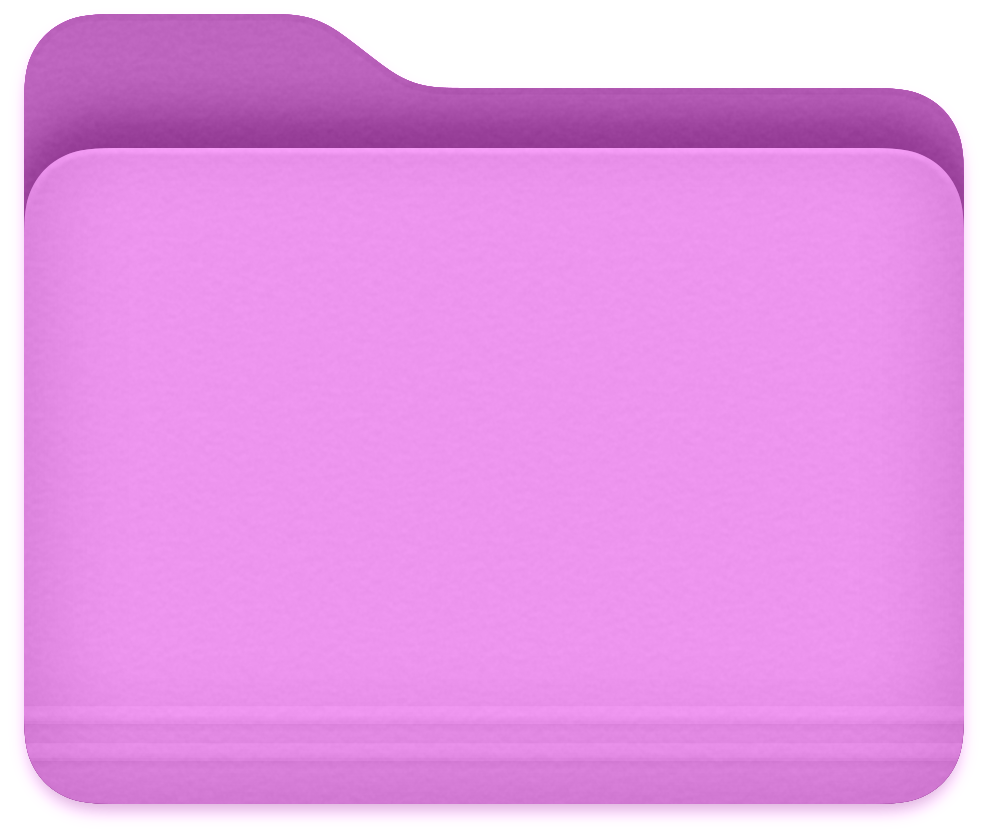
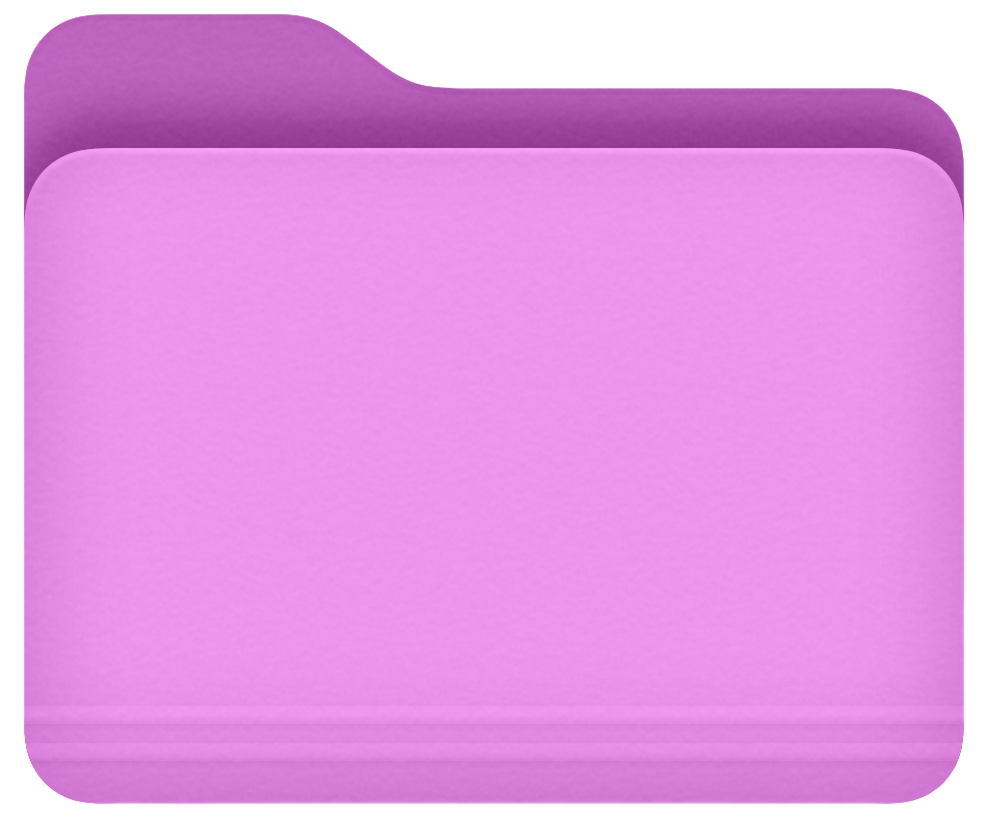
Sticky notes derecha

Changed region(s): [[0.0304, 0.8998, 0.9717, 0.9928]]

diff --git a/components/desktop/responsive-desktop.tsx b/components/desktop/responsive-desktop.tsx
@@ -51,18 +51,54 @@ export function ResponsiveDesktop() {
     }, 300)
   }
 
-  // Fixed folder positions - top left arrangement
+  // Fixed folder positions - centered towards right, two rows, right to left arrangement
   const getFolderPositions = () => {
+    if (typeof window !== 'undefined') {
+      const windowWidth = window.innerWidth
+      const folderWidth = 100 // Approximate folder width including spacing
+      const centerX = windowWidth / 2 // Center of screen
+      const rightOffset = 280 // Offset towards right from center (increased from 200)
+      const startX = centerX + rightOffset // Start position (center + right offset)
+      
+      return {
+        projects: [
+          // Primera fila (4 elementos de derecha a izquierda) - moved up from y: 80 to y: 60
+          { x: startX, y: 60 },                           // Project 02 (Simplingo) - más a la derecha
+          { x: startX - folderWidth, y: 60 },             // Project 01 (AbsolutMess)
+          { x: startX - (folderWidth * 2), y: 60 },       // Project 03 (Leafpress)  
+          { x: startX - (folderWidth * 3), y: 60 },       // Project 04 (Amazon)
+          // Segunda fila (1 elemento restante) - moved up from y: 180 to y: 150
+          { x: startX, y: 150 }                           // Don't Look - más a la derecha en segunda fila
+        ],
+        // Segunda fila (2 elementos más de derecha a izquierda) - moved up from y: 180 to y: 150
+        aboutMe: { x: startX - folderWidth, y: 150 },     // About Me 
+        resume: { x: startX - (folderWidth * 2), y: 150 }, // Resume.pdf
+        // Posición de la papelera - abajo a la izquierda del área de carpetas - moved up from y: 280 to y: 240
+        trash: { x: startX - (folderWidth * 4), y: 240 }
+      }
+    }
+    
+    // Fallback positions for SSR - centered towards right
+    const fallbackCenterX = 640 // Approximate center for 1280px width
+    const rightOffset = 280 // Increased from 200 to match above
+    const fallbackStartX = fallbackCenterX + rightOffset
+    const folderWidth = 100
+    
     return {
       projects: [
-        { x: 80, y: 120 },   // Project 02 (Simplingo)
-        { x: 180, y: 120 },  // Project 01 (AbsolutMess) 
-        { x: 280, y: 120 },  // Project 04 (Amazon)
-        { x: 380, y: 120 },  // Project 03 (Leafpress)
-        { x: 480, y: 120 }   // Don't Look
+        // Primera fila (4 elementos de derecha a izquierda) - moved up from y: 80 to y: 60
+        { x: fallbackStartX, y: 60 },                      // Project 02 (Simplingo)
+        { x: fallbackStartX - folderWidth, y: 60 },        // Project 01 (AbsolutMess)
+        { x: fallbackStartX - (folderWidth * 2), y: 60 },  // Project 03 (Leafpress)
+        { x: fallbackStartX - (folderWidth * 3), y: 60 },  // Project 04 (Amazon)
+        // Segunda fila (1 elemento restante) - moved up from y: 180 to y: 150
+        { x: fallbackStartX, y: 150 }                      // Don't Look
       ],
-      aboutMe: { x: 80, y: 220 },     // About Me - second row
-      resume: { x: 180, y: 220 }      // Resume.pdf - second row
+      // Segunda fila (2 elementos más de derecha a izquierda) - moved up from y: 180 to y: 150
+      aboutMe: { x: fallbackStartX - folderWidth, y: 150 },     // About Me
+      resume: { x: fallbackStartX - (folderWidth * 2), y: 150 }, // Resume.pdf
+      // Posición de la papelera - abajo a la izquierda del área de carpetas - moved up from y: 280 to y: 240
+      trash: { x: fallbackStartX - (folderWidth * 4), y: 240 }
     }
   }
 
@@ -124,8 +160,8 @@ export function ResponsiveDesktop() {
             />
           )}
           
-          {/* Central Welcome Text - Always centered */}
-          <div className="absolute inset-0 flex items-center justify-center pointer-events-none">
+          {/* Central Welcome Text - Always centered, behind everything */}
+          <div className="absolute inset-0 flex items-center justify-center pointer-events-none z-0">
             <CentralWelcome />
           </div>
           
@@ -165,6 +201,11 @@ export function ResponsiveDesktop() {
             size="md"
           />
 
+          {/* Trash Can - inside desktop */}
+          <TrashCan 
+            isActive={isTrashActive} 
+            position={positions.trash}
+          />
 
         </div>
       </MacOSWindow>
@@ -181,9 +222,6 @@ export function ResponsiveDesktop() {
           {window.content}
         </FolderWindow>
       ))}
-      
-      {/* Trash Can */}
-      <TrashCan isActive={isTrashActive} />
       
       {/* Reset Button */}
       <DesktopResetButton onReset={resetFolderPositions} />

diff --git a/components/desktop/trash-can.tsx b/components/desktop/trash-can.tsx
@@ -2,18 +2,27 @@
 
 import { motion } from 'framer-motion'
 import { useState } from 'react'
-import { Trash2 } from 'lucide-react'
+import Image from 'next/image'
 
 interface TrashCanProps {
   isActive?: boolean
+  position?: { x: number, y: number }
 }
 
-export function TrashCan({ isActive = false }: TrashCanProps) {
+export function TrashCan({ isActive = false, position }: TrashCanProps) {
   const [isHovered, setIsHovered] = useState(false)
+
+  // Default position if not provided
+  const defaultPosition = { x: window?.innerWidth ? window.innerWidth - 100 : 1180, y: window?.innerHeight ? window.innerHeight - 120 : 580 }
+  const finalPosition = position || defaultPosition
 
   return (
     <motion.div
-      className="fixed bottom-8 right-8 z-30"
+      className="absolute z-30"
+      style={{
+        left: finalPosition.x,
+        top: finalPosition.y
+      }}
       onMouseEnter={() => setIsHovered(true)}
       onMouseLeave={() => setIsHovered(false)}
       animate={{
@@ -27,14 +36,14 @@ export function TrashCan({ isActive = false }: TrashCanProps) {
           w-16 h-16 rounded-xl flex items-center justify-center
           transition-all duration-200
           ${isActive 
-            ? 'bg-red-500 shadow-xl shadow-red-500/30' 
-            : 'bg-gray-600 hover:bg-gray-500'
+            ? 'shadow-xl shadow-red-500/30' 
+            : 'hover:bg-black/10'
           }
         `}
         style={{
           boxShadow: isActive 
             ? '0 8px 25px rgba(239, 68, 68, 0.4), 0 0 0 2px rgba(239, 68, 68, 0.3)' 
-            : '0 4px 12px rgba(0, 0, 0, 0.3)'
+            : 'none'
         }}
       >
         <motion.div
@@ -47,8 +56,12 @@ export function TrashCan({ isActive = false }: TrashCanProps) {
             ease: 'easeInOut'
           }}
         >
-          <Trash2 
-            className={`w-8 h-8 ${isActive ? 'text-white' : 'text-gray-300'} transition-colors`} 
+          <Image
+            src="/bin.png"
+            alt="Papelera"
+            width={32}
+            height={32}
+            className={`transition-all duration-200 ${isActive ? 'brightness-110' : 'brightness-90'}`}
           />
         </motion.div>
       </div>

diff --git a/components/desktop/macos-folder.tsx b/components/desktop/macos-folder.tsx
@@ -44,7 +44,7 @@ export function MacOSFolder({
     if (dragDistance > 5) {
       setHasBeenMoved(true)
       setPosition(prev => ({
-        x: Math.max(20, Math.min(window.innerWidth - 120, prev.x + info.offset.x)),
+        x: Math.max(20, Math.min(window.innerWidth - 100, prev.x + info.offset.x)),
         y: Math.max(20, Math.min(window.innerHeight - 120, prev.y + info.offset.y))
       }))
     }
@@ -83,7 +83,7 @@ export function MacOSFolder({
       dragElastic={0.1}
       dragConstraints={{
         left: 20,
-        right: typeof window !== 'undefined' ? window.innerWidth - 120 : 1200,
+        right: typeof window !== 'undefined' ? window.innerWidth - 100 : 1200,
         top: 20,
         bottom: typeof window !== 'undefined' ? window.innerHeight - 120 : 800,
       }}
@@ -93,7 +93,7 @@ export function MacOSFolder({
         x: position.x,
         y: position.y,
         scale: isDragging ? 1.05 : 1,
-        zIndex: isDragging ? 100 : isSelected ? 50 : hasBeenMoved ? 10 : 1
+        zIndex: isDragging ? 100 : isSelected ? 50 : hasBeenMoved ? 20 : 10
       }}
       initial={{ opacity: 0, scale: 0.8 }}
       whileInView={{ opacity: 1, scale: 1 }}
@@ -173,9 +173,8 @@ export function MacOSFolder({
             transition-all duration-200
           `}
           style={{
-            textShadow: !isSelected ? '0 1px 2px rgba(255, 255, 255, 0.8)' : 'none',
-            backdropFilter: isSelected ? 'none' : 'blur(10px)',
-            backgroundColor: isSelected ? '#3b82f6' : 'rgba(255, 255, 255, 0.8)'
+            textShadow: !isSelected ? '0 1px 2px rgba(0, 0, 0, 0.3)' : 'none',
+            backgroundColor: isSelected ? '#3b82f6' : 'transparent'
           }}
         >
           {name}

diff --git a/components/desktop/sticky-note.tsx b/components/desktop/sticky-note.tsx
@@ -12,7 +12,7 @@ interface StickyNoteProps {
 
 export function StickyNote({ onDelete, onDragToTrash }: StickyNoteProps) {
   const { t } = useLanguage()
-  const [position, setPosition] = useState({ x: 60, y: 120 })
+  const [position, setPosition] = useState({ x: 60, y: 80 })
   const [isDragging, setIsDragging] = useState(false)
   const [isVisible, setIsVisible] = useState(true)
   const dragRef = useRef<HTMLDivElement>(null)
@@ -40,10 +40,7 @@ export function StickyNote({ onDelete, onDragToTrash }: StickyNoteProps) {
   const displayItems = Array.isArray(todoItems) ? todoItems : [
     'Land my dream UX job',
     'Drink water',
-    'Move to the US',
-    'Finish grad school without losing my mind',
-    'Build that banger spotify playlist',
-    'World domination',
+    'Graduate in 2026',
     'Get really good at making pasta',
     'Travel somewhere new every year'
   ]
@@ -69,7 +66,7 @@ export function StickyNote({ onDelete, onDragToTrash }: StickyNoteProps) {
         y: position.y,
         rotate: isDragging ? 2 : -1,
         scale: isDragging ? 1.05 : 1,
-        zIndex: isDragging ? 100 : 20
+        zIndex: isDragging ? 100 : 30
       }}
       initial={{ opacity: 0, scale: 0.8, rotate: -1 }}
       whileInView={{ opacity: 1, scale: 1 }}

diff --git a/components/desktop/enhanced-folder.tsx b/components/desktop/enhanced-folder.tsx
@@ -213,9 +213,11 @@ export function EnhancedFolder({
             transition-all duration-200 shadow-sm
           `}
           animate={{ 
-            backgroundColor: isSelected ? '#3b82f6' : 'rgba(255, 255, 255, 0.8)',
-            color: isSelected ? '#ffffff' : undefined,
-            backdropFilter: 'blur(10px)'
+            backgroundColor: isSelected ? '#3b82f6' : 'transparent',
+            color: isSelected ? '#ffffff' : undefined
+          }}
+          style={{
+            textShadow: !isSelected ? '0 1px 2px rgba(0, 0, 0, 0.3)' : 'none'
           }}
         >
           {name}

diff --git a/components/desktop/central-welcome.tsx b/components/desktop/central-welcome.tsx
@@ -11,7 +11,7 @@ export function CentralWelcome() {
       initial={{ opacity: 0, scale: 0.9 }}
       animate={{ opacity: 1, scale: 1 }}
       transition={{ delay: 0.5, duration: 0.8, ease: [0.23, 1, 0.32, 1] }}
-      className="text-center z-10 pointer-events-none"
+      className="text-center z-0 pointer-events-none"
     >
       <motion.h1
         className="text-4xl md:text-6xl lg:text-7xl xl:text-8xl font-pecita text-gray-800 dark:text-gray-200 mb-2"

diff --git a/components/desktop/draggable-folder.tsx b/components/desktop/draggable-folder.tsx
@@ -131,6 +131,9 @@ export function DraggableFolder({
             backgroundColor: isSelected ? '#3b82f6' : 'transparent',
             color: isSelected ? '#ffffff' : undefined
           }}
+          style={{
+            textShadow: !isSelected ? '0 1px 2px rgba(0, 0, 0, 0.3)' : 'none'
+          }}
         >
           {name}
         </motion.div>
